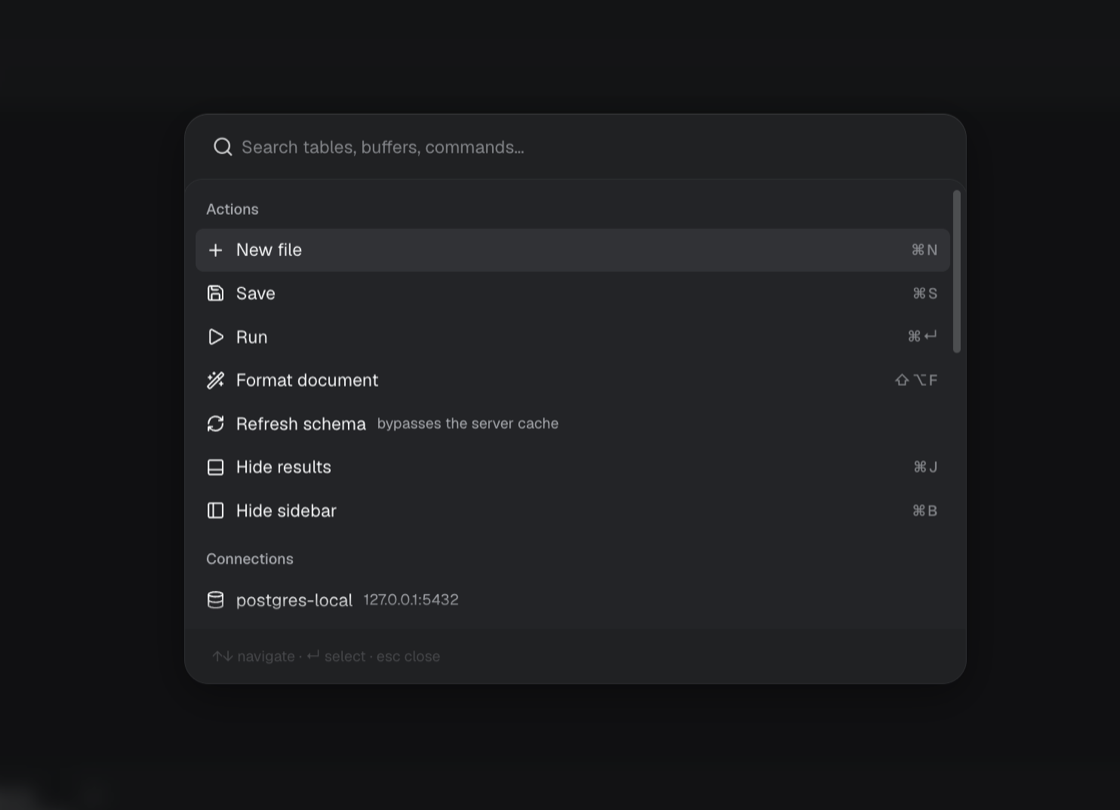
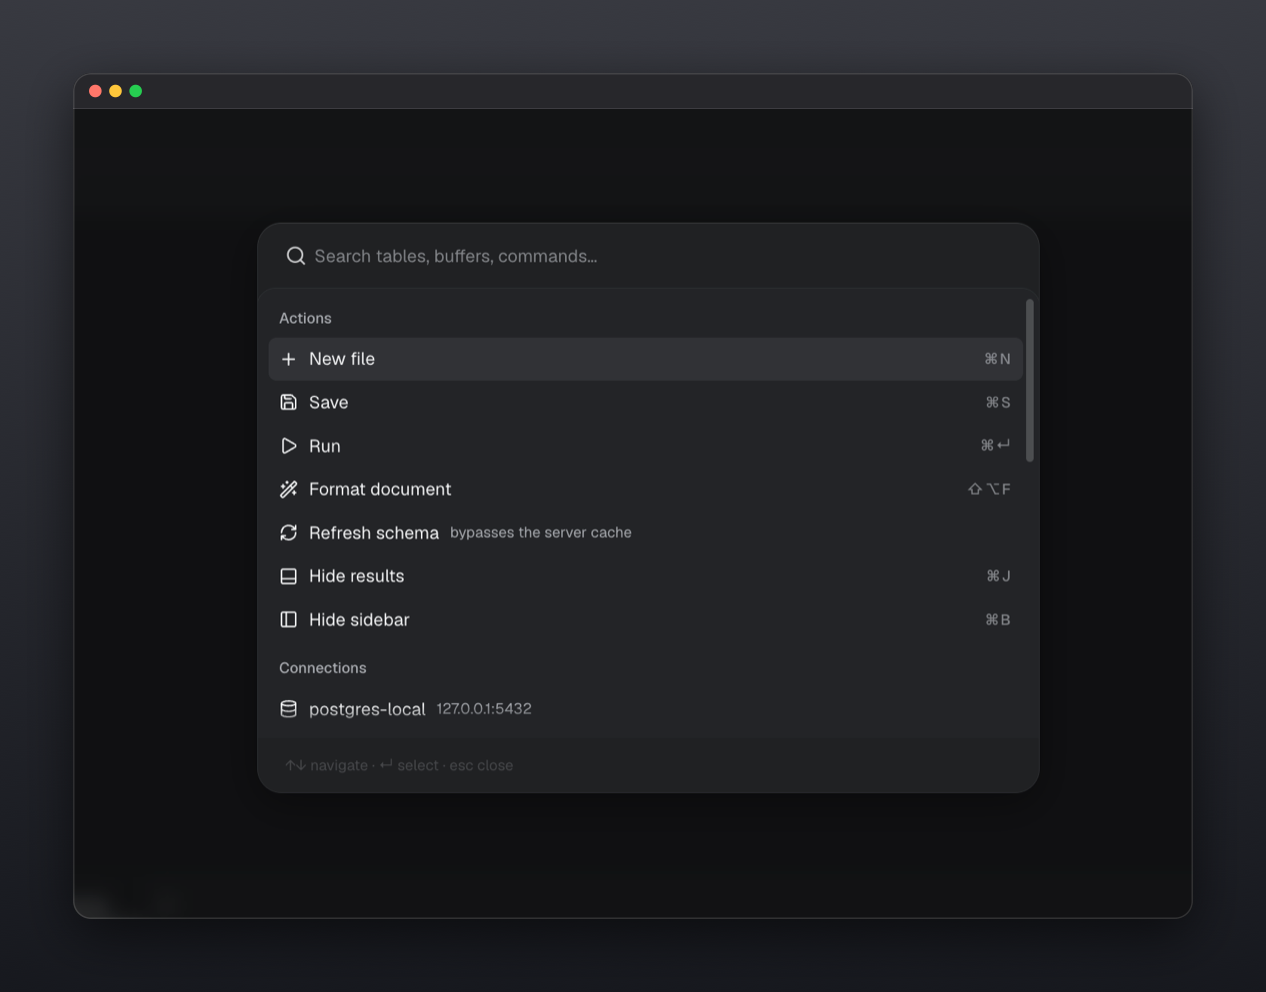
docs: frame the README screenshots in a macOS window
Each PNG in docs/assets is composited onto a dark gradient pad with a
rounded, shadowed card and a titlebar, so the shots read as windows
rather than bare edge-to-edge crops. README widths are scaled by the
same ratio the padding added, so the UI inside renders at its old size.

The pad is a vertical gradient and the output is opaque RGB, both so
PNG can actually compress it — a diagonal gradient with an alpha
channel tripled these files. Each image is capped at twice the width
the README displays it at, which is why hero.png shrinks.

demo.gif is unchanged.

diff --git a/README.md b/README.md
@@ -91,7 +91,7 @@ with their types, highlighting is dialect-aware, and a rejected statement is und
 offset the server reported, with the message on hover.
 
 <p align="center">
-  <img src="docs/assets/schema-editor.png" alt="Schema tree with a table expanded to its columns, types and keys, beside an editor holding a formatted query" width="680">
+  <img src="docs/assets/schema-editor.png" alt="Schema tree with a table expanded to its columns, types and keys, beside an editor holding a formatted query" width="748">
   <br><sub>Types, nullability, primary keys and row estimates — the same metadata the editor completes from.</sub>
 </p>
 
@@ -194,7 +194,7 @@ SELECT * FROM orders WHERE status = 'paid' AND created_at > now() - interval '7 
 ```
 
 <p align="center">
-  <img src="docs/assets/notebook.png" alt="A notebook with two cells, each showing its own result grid, row count and execution time" width="660">
+  <img src="docs/assets/notebook.png" alt="A notebook with two cells, each showing its own result grid, row count and execution time" width="730">
   <br><sub>Each cell keeps its own rows, row count and timing.</sub>
 </p>
 
@@ -210,7 +210,7 @@ Editors and results live in a resizable pane grid. Drag a tab to any edge, or pr
 directly. Panes resize, tabs move between them, and the layout is restored on reload.
 
 <p align="center">
-  <img src="docs/assets/hero.png" alt="A file open on the left with its results below, and a notebook in a second pane on the right" width="700">
+  <img src="docs/assets/hero.png" alt="A file open on the left with its results below, and a notebook in a second pane on the right" width="780">
   <br><sub>A file and its results on the left, a notebook on the right — one window.</sub>
 </p>
 
@@ -230,10 +230,10 @@ boundary of what the server is allowed to read and write.
 <table align="center">
 <tr>
 <td align="center" width="40%">
-  <img src="docs/assets/workspace-files.png" alt="Files panel listing the .sql files in an open workspace folder" width="210">
+  <img src="docs/assets/workspace-files.png" alt="Files panel listing the .sql files in an open workspace folder" width="255">
 </td>
 <td align="center" width="60%">
-  <img src="docs/assets/open-folder.png" alt="The folder picker, browsing the filesystem to choose a workspace directory" width="400">
+  <img src="docs/assets/open-folder.png" alt="The folder picker, browsing the filesystem to choose a workspace directory" width="460">
 </td>
 </tr>
 <tr>
@@ -250,7 +250,7 @@ statement with its own row count and duration, alongside a Messages tab for serv
 can be viewed as a grid or as text, copied with <kbd>⌘</kbd><kbd>C</kbd>, or exported to CSV.
 
 <p align="center">
-  <img src="docs/assets/results.png" alt="Result grid with typed column headers, a row count and duration, and grid, text and export controls" width="700">
+  <img src="docs/assets/results.png" alt="Result grid with typed column headers, a row count and duration, and grid, text and export controls" width="750">
   <br><sub>Types in the headers, row count and duration above them.</sub>
 </p>
 
@@ -261,7 +261,7 @@ Selecting a past run restores it in the results pane with its SQL, outcome and t
 records what was run and how it went; result rows are never written to disk.
 
 <p align="center">
-  <img src="docs/assets/history.png" alt="History sidebar with runs grouped under Today and Yesterday, each with a row-count badge" width="300">
+  <img src="docs/assets/history.png" alt="History sidebar with runs grouped under Today and Yesterday, each with a row-count badge" width="355">
   <br><sub>Grouped by day, collapsible, still there after a restart.</sub>
 </p>
 
@@ -273,7 +273,7 @@ database switches to it, and the schema tree, completions and editor follow with
 step.
 
 <p align="center">
-  <img src="docs/assets/command-palette.png" alt="Command palette open, showing grouped actions with their shortcuts and a saved connection" width="560">
+  <img src="docs/assets/command-palette.png" alt="Command palette open, showing grouped actions with their shortcuts and a saved connection" width="635">
   <br><sub>Actions, connections, databases, files and tables in one search.</sub>
 </p>
 
